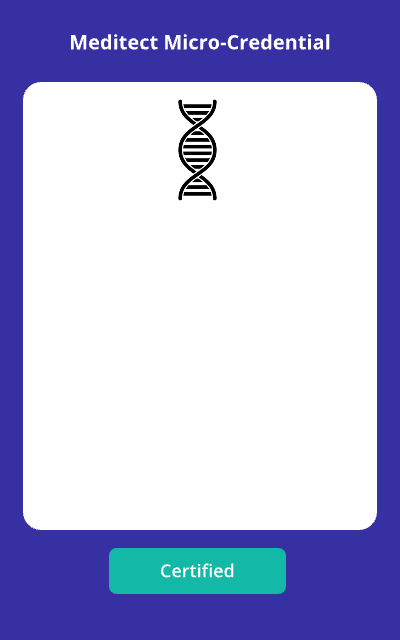
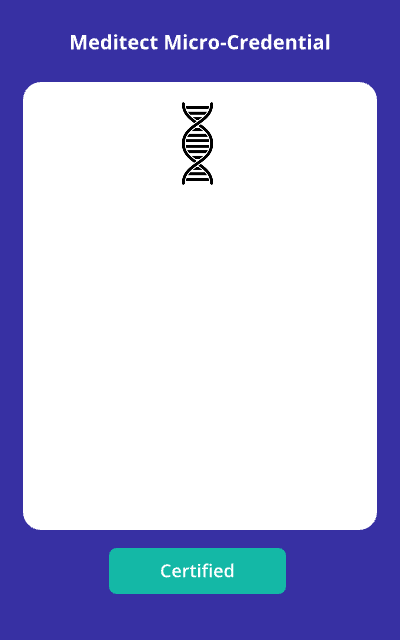
nicer demo image

Changed region(s): [[0.42, 0.1562, 0.54, 0.3125]]

diff --git a/src/routes/simulation/Dashboard.svelte b/src/routes/simulation/Dashboard.svelte
@@ -46,7 +46,7 @@
 
             const imageWidth = image.width;
 
-            let currentHeight = 235;
+            let currentHeight = 225;
 
             const fontSize = 18;
 
@@ -76,7 +76,7 @@
 
                 ctx.fill();
 
-                currentHeight += fontSize * 1.6;
+                currentHeight += fontSize * 1.7;
             }
 
             // Random 20 character string of numbers and letters
